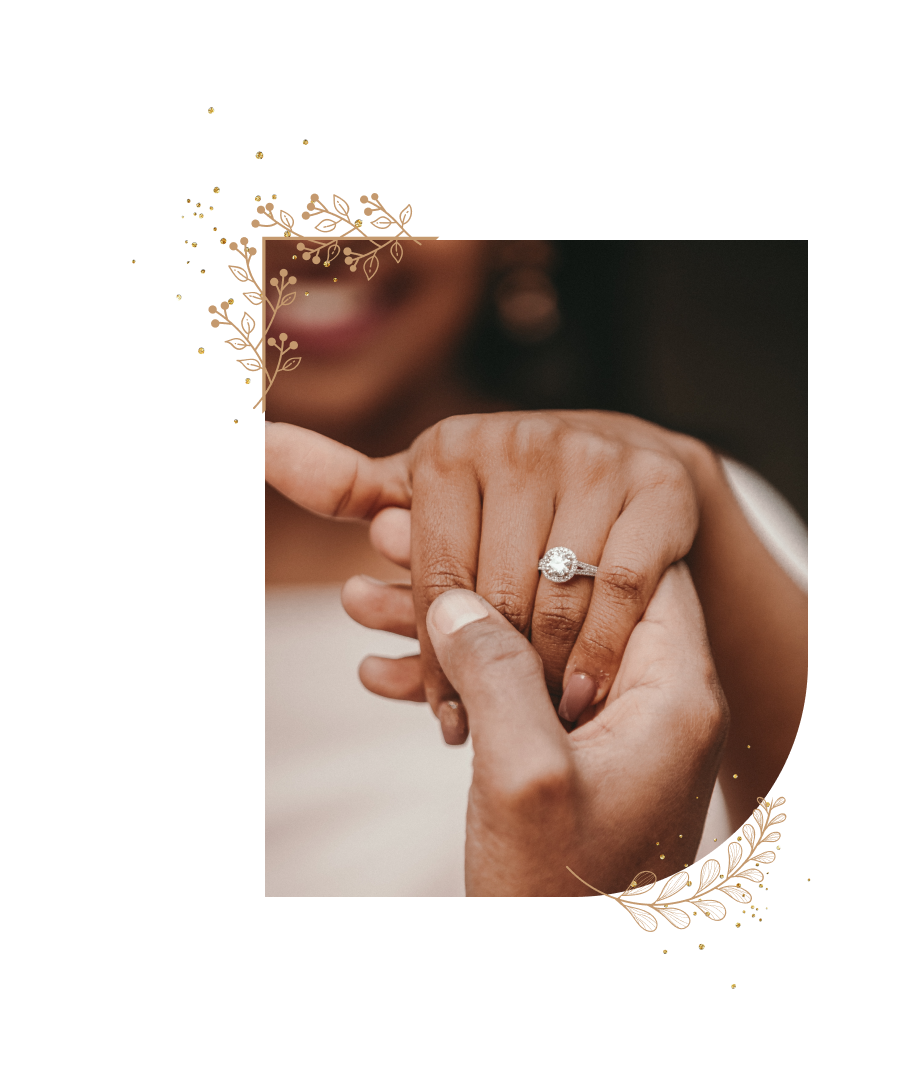
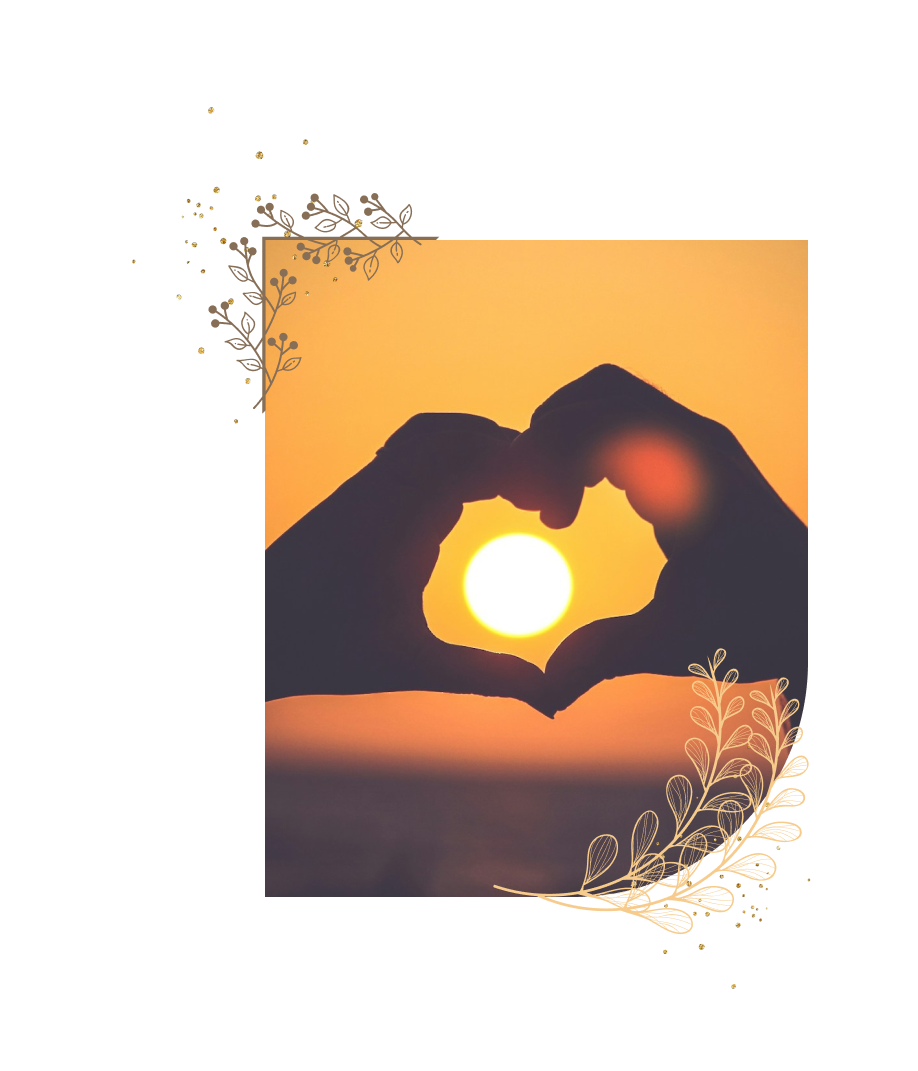
updated images" :wq

diff --git a/public/styling/style-d.css b/public/styling/style-d.css
@@ -297,20 +297,19 @@ p.half span{
 }
 .about-img{
     width: 30rem;
-    margin: -2rem 0 -9rem 0;
-    position: relative;
-    right: -173px;
+    opacity: .80;
+    margin: -9rem 0px -9rem 12rem;
+    /* position: relative; */
+    /* right: -173px; */
 }
 div.imgBg{
     background-color: var(--darkgreen);
     width: 100%;
-
-        height: 19rem;
+        height: 10.65rem;
         position: absolute;
         /* bottom: -1923px; */
-        top: 2279px;
+        top: 2390px;
         z-index: -1;
-    
 }
 #offeringsD .button:hover{
     font-size: .75rem;
@@ -321,6 +320,7 @@ div.imgBg{
     padding: .5rem .75rem;
     border-radius: 1rem;
 }
+
 /* CONTACT */
 .contact-container>p{
     color: var(--khaki);
@@ -543,14 +543,15 @@ textarea::placeholder {
 
 
 @media screen and (min-width: 923px) {
-    div.imgBg{
+    /* div.imgBg{
         top: 2265px;
-    }
+    } */
 }
 @media screen and (min-width: 1015px) {
-    div.imgBg{
+    /* div.imgBg{
         top: 2250px;
     }
+*/
 }
 
 /* @media screen and (max-width: 1070px) {

diff --git a/public/index.html b/public/index.html
@@ -318,7 +318,6 @@
             </div>
 
             <div >
-
                 <img class="about-img" src="styling/wedding.png">
             </div>
             <div class="row">
